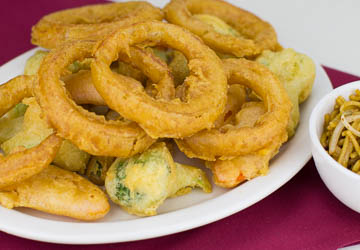
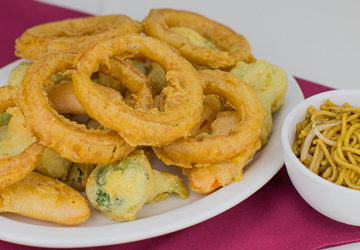
Add menu images and update tiles
Populate module3-solution/images/menu with a large set of category images (A, B, C, C2, CSR, Cm, DS, Dk, F, Fr, NF, NL, NS, Pf, SO, SR, SS, Sp, T, Vg, and others) and update menu-tile.jpg and specials-tile.jpg. Adds the image assets required for the module3 solution's menu UI.

diff --git a/module3-solution/Single_Category.html b/module3-solution/Single_Category.html
@@ -69,19 +69,130 @@
 
 
   <div id="main-content" class="container">
-    <div class="row">
-      <div class="col-sm-12">
-        <h2 class="text-center">Lunch</h2>
-        <p class="text-center">Substituting rice for egg is a common practice in many Asian cuisines.</p>
-      </div>
-      <section class="col-sm-6 col-md-4">
-        <div class="menu-item">
-          <h3>Egg Foo Young</h3>
-          <p>Egg foo young is an omelette dish found in Chinese Indonesian cuisine and American Chinese cuisine. It is made with eggs and usually some type of meat, vegetables, and/or seafood.</p>
-        </div>
-
-      </section>
-    </div>
+    <h2 id="menu-categories-title" class="text-center">Lunch Menu Categories</h2>
+    <div class="text-center">Lunch is not serverd untill 12:30 pm</div>
+        <section class="row">
+            <div class="menu-item-title col-md-6">
+                <div class="row">
+                    <div class="col-sm-5">
+                        <div class="menu-item-photo">
+                            <div>T01</div>
+                            <img src="../images/menu/A/A-10.jpg" alt="Menu-item" class="img-responsive" width="250px" 
+                            height="150px">
+                        </div>
+                        <div class="menu-item-price">
+                            $10.50 <span>(pint)</span>
+                            $15.00 <span>(quart)</span>
+                        </div>
+                    </div>
+                    <div class="menu-item-description col-sm-7">
+                        <h3 class="menu-item-title">Veal with green cabbages</h3>
+                        <p class="menu-items-details">Lorem ipsum dolor, sit amet consectetur adipisicing elit.
+                             Voluptatibus ut cumque beatae 
+                                tenetur nesciunt, veritatis eos recusandae tempore, incidunt placeat temporibus cum 
+                                neque eaque quidem possimus dolor aperiam magni nisi!
+                        </p>
+                    </div>
+                </div>
+                <hr class="visible-xs">
+            </div>
+            <div class="clearfix visible-md-block visible-lg-block"></div>
+            <div class="menu-item-title col-md-6">
+                <div class="row">
+                    <div class="col-sm-5">
+                        <div class="menu-item-photo">
+                            <div>T01</div>
+                            <img src="../images/menu/A/A-10.jpg" alt="Menu-item" class="img-responsive" width="250px" 
+                            height="150px">
+                        </div>
+                        <div class="menu-item-price">
+                            $10.50 <span>(pint)</span>
+                            $15.00 <span>(quart)</span>
+                        </div>
+                    </div>
+                    <div class="menu-item-description col-sm-7">
+                        <h3 class="menu-item-title">Veal with green cabbages</h3>
+                        <p class="menu-items-details">Lorem ipsum dolor, sit amet consectetur adipisicing elit. Voluptatibus ut cumque beatae 
+                                tenetur nesciunt, veritatis eos recusandae tempore, incidunt placeat temporibus cum 
+                                neque eaque quidem possimus dolor aperiam magni nisi!
+                        </p>
+                    </div>
+                </div>
+                <hr class="visible-xs">
+            </div>
+            <div class="clearfix visible-md-block visible-lg-block"></div>
+            <div class="menu-item-title col-md-6">
+                <div class="row">
+                    <div class="col-sm-5">
+                        <div class="menu-item-photo">
+                            <div>T01</div>
+                            <img src="../images/menu/A/A-10.jpg" alt="Menu-item" class="img-responsive" width="250px" 
+                            height="150px">
+                        </div>
+                        <div class="menu-item-price">
+                            $10.50 <span>(pint)</span>
+                            $15.00 <span>(quart)</span>
+                        </div>
+                    </div>
+                    <div class="menu-item-description col-sm-7">
+                        <h3 class="menu-item-title">Veal with green cabbages</h3>
+                        <p class="menu-items-details">Lorem ipsum dolor, sit amet consectetur adipisicing elit. Voluptatibus ut cumque beatae 
+                                tenetur nesciunt, veritatis eos recusandae tempore, incidunt placeat temporibus cum 
+                                neque eaque quidem possimus dolor aperiam magni nisi!
+                        </p>
+                    </div>
+                </div>
+                <hr class="visible-xs">
+            </div>
+            <div class="clearfix visible-md-block visible-lg-block"></div>
+            <div class="menu-item-title col-md-6">
+                <div class="row">
+                    <div class="col-sm-5">
+                        <div class="menu-item-photo">
+                            <div>T01</div>
+                            <img src="../images/menu/A/A-10.jpg" alt="Menu-item" class="img-responsive" width="250px" 
+                            height="150px">
+                        </div>
+                        <div class="menu-item-price">
+                            $10.50 <span>(pint)</span>
+                            $15.00 <span>(quart)</span>
+                        </div>
+                    </div>
+                    <div class="menu-item-description col-sm-7">
+                        <h3 class="menu-item-title">Veal with green cabbages</h3>
+                        <p class="menu-items-details">Lorem ipsum dolor, sit amet consectetur adipisicing elit. Voluptatibus ut cumque beatae 
+                                tenetur nesciunt, veritatis eos recusandae tempore, incidunt placeat temporibus cum 
+                                neque eaque quidem possimus dolor aperiam magni nisi!
+                        </p>
+                    </div>
+                </div>
+                <hr class="visible-xs">
+            </div>
+            <div class="clearfix visible-md-block visible-lg-block"></div>
+            <div class="menu-item-title col-md-6">
+                <div class="row">
+                    <div class="col-sm-5">
+                        <div class="menu-item-photo">
+                            <div>T01</div>
+                            <img src="../images/menu/A/A-10.jpg" alt="Menu-item" class="img-responsive" width="250px" 
+                            height="150px">
+                        </div>
+                        <div class="menu-item-price">
+                            $10.50 <span>(pint)</span>
+                            $15.00 <span>(quart)</span>
+                        </div>
+                    </div>
+                    <div class="menu-item-description col-sm-7">
+                        <h3 class="menu-item-title">Veal with green cabbages</h3>
+                        <p class="menu-items-details">Lorem ipsum dolor, sit amet consectetur adipisicing elit. Voluptatibus ut cumque beatae 
+                                tenetur nesciunt, veritatis eos recusandae tempore, incidunt placeat temporibus cum 
+                                neque eaque quidem possimus dolor aperiam magni nisi!
+                        </p>
+                    </div>
+                </div>
+                <hr class="visible-xs">
+            </div>
+        </section>
   </div>
 
 

diff --git a/module3-solution/css/styles.css b/module3-solution/css/styles.css
@@ -117,6 +117,50 @@ body {
   padding: 10px;
 }
 
+/*Single Category Page Styles */
+.menu-item-title{
+  margin-bottom: 25px;
+}
+.menu-item-title hr{
+  width: 80px;
+}
+.menu-item-title .menu-item-price {
+  font-size: 1.2em;
+  margin-right: -15px;
+  margin-top: -15px;
+  text-align: right;
+}
+.menu-item-title .menu-item-price span {
+  font-size: 0.6em;
+}
+.menu-item-photo {
+  position: relative;
+  border: 2px solid #ccc;
+  overflow: hidden;
+  padding: 0;
+  margin-right: -15px;
+  margin-left: auto;
+  margin-bottom: 20px;
+  max-width: 250px;
+}
+.menu-item-photo div{
+  position:absolute;
+  bottom: 0;
+  right: 0;
+  width: 80px;
+  background-color: #557c3c;
+  text-align: center;
+}
+.menu-item-description {
+  padding-right: 30px;
+}
+h3.menu-item-title {
+  margin: 0 0 10px
+}
+.menu-items-details {
+  font-size: 0.9em;
+  font-style: italic;
+}
 
 /********** Large devices only **********/
 @media (min-width: 1200px) {